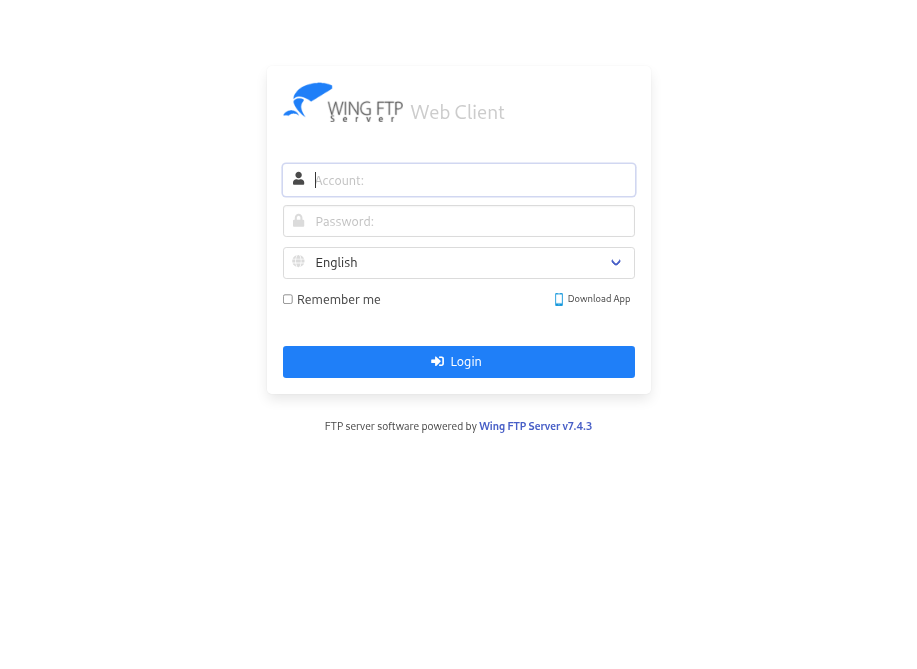
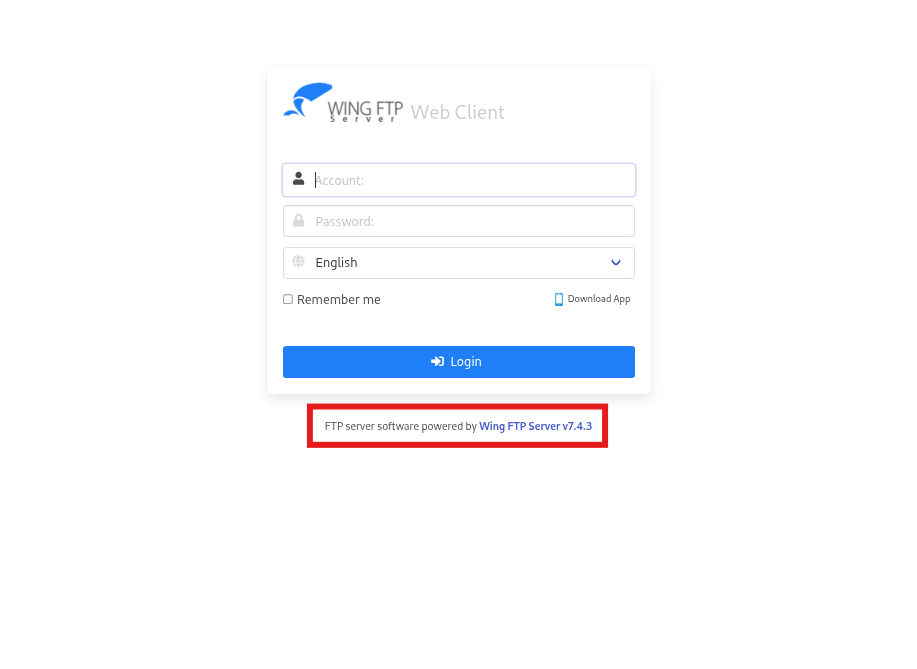
vault backup: 2026-03-01 13:14:00

Changed region(s): [[0.3359, 0.5979, 0.6718, 0.6876]]

diff --git a/CYBER/13 CTFS & LABS/HTB/WINGDATA.md b/CYBER/13 CTFS & LABS/HTB/WINGDATA.md
@@ -266,6 +266,12 @@ Inspection of the page footer shows "FTP server software powered by **[Wing FTP
 <div align="center">
 <br>
 <br>
+</div>
+
+#### 2.2.5 Vulnerability Research & Exploit Identification
+<div align="center">
+<br>
+<br>
 ※※※※※※※※※※※※※※※※※※※※※※※※
 <br>
 </div>
